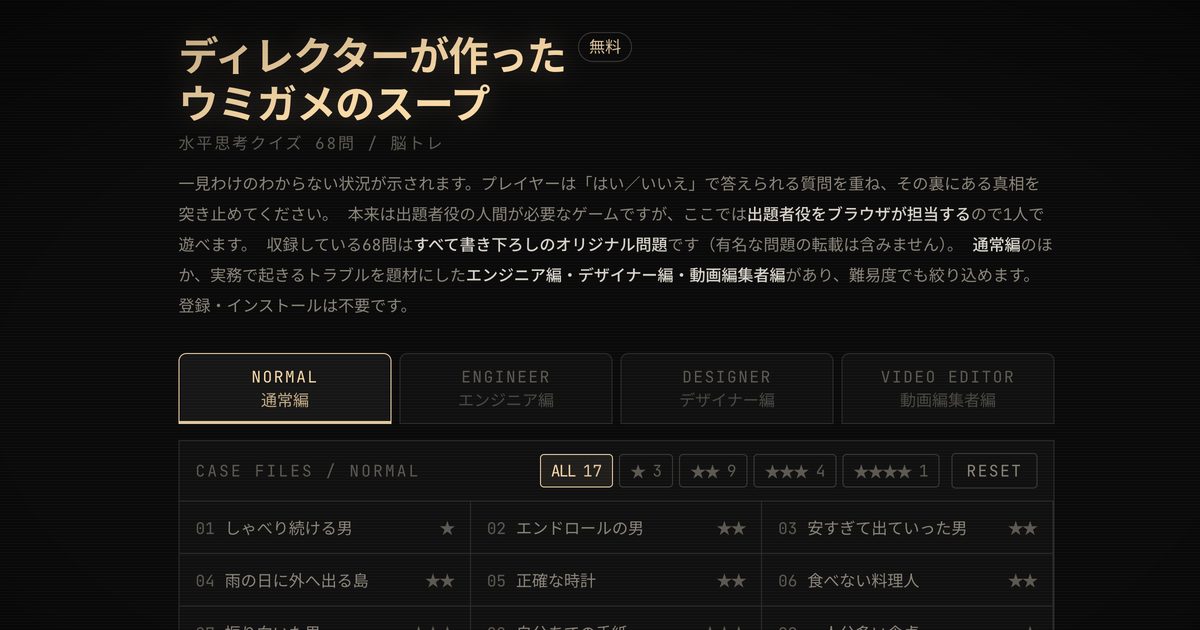
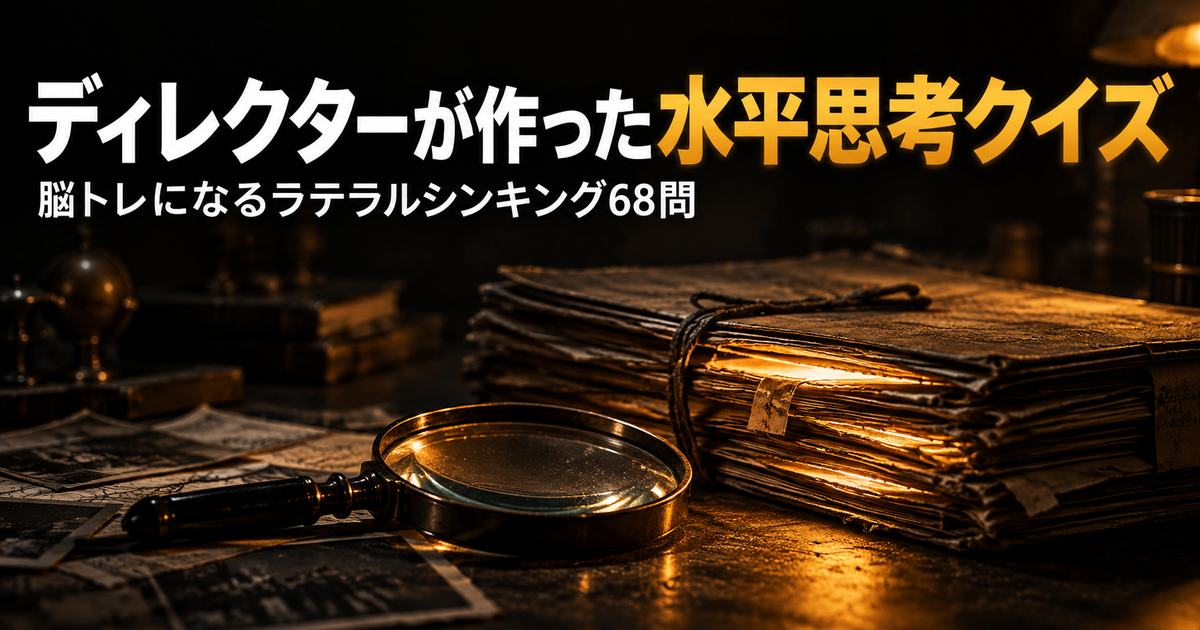
feat(lateral-thinking): タイトルを「ディレクターが作った水平思考クイズ」に変更し「ウミガメのスープ」表記を外す
商標の登録状況が確認しきれないため、一般的な呼び名へ置き換える
- title／OGP／Twitter／JSON-LD（名前・パンくず・FAQ）／h1／footer を新タイトルへ
- FAQと説明文の「ウミガメのスープとは」を「水平思考クイズとは」に
- アプリ名（manifest・apple-mobile-web-app-title）を「水平思考クイズ」に
- シェア時のハッシュタグを #水平思考クイズ #ラテラルシンキング #脳トレ に
- og.png をChatGPTで新規作成した画像（事件ファイルと虫眼鏡・琥珀色）に差し替え
- キャッシュ番号: 20261024b

diff --git a/lateral-thinking/index.html b/lateral-thinking/index.html
@@ -3,7 +3,7 @@
 <head>
 <meta charset="UTF-8">
 <meta name="viewport" content="width=device-width, initial-scale=1.0">
-<title>ディレクターが作ったウミガメのスープ｜脳トレになる水平思考クイズ68問</title>
+<title>ディレクターが作った水平思考クイズ｜脳トレになるラテラルシンキング68問</title>
 <meta name="description" content="「はい／いいえ」で答えられる質問を重ね、一見不可解な状況の裏にある真相を突き止める脳トレです。出題者役はブラウザが担当するので1人で遊べます。通常編のほか、エンジニア・デザイナー・動画編集者の実務を題材にしたジャンルも収録。">
 <link rel="canonical" href="https://codequest.work/games/lateral-thinking/">
 <link rel="alternate" hreflang="ja" href="https://codequest.work/games/lateral-thinking/">
@@ -14,19 +14,19 @@
 <meta property="og:type" content="website">
 <meta property="og:site_name" content="CodeQuest.work">
 <meta property="og:locale" content="ja_JP">
-<meta property="og:title" content="ディレクターが作ったウミガメのスープ｜脳トレになる水平思考クイズ68問">
+<meta property="og:title" content="ディレクターが作った水平思考クイズ｜脳トレになるラテラルシンキング68問">
 <meta property="og:description" content="出題者役はブラウザが担当。質問を打ち込むと「はい／いいえ／関係ありません」が返ります。通常編・エンジニア編・デザイナー編・動画編集者編を各17問収録。">
 <meta property="og:url" content="https://codequest.work/games/lateral-thinking/">
-<meta property="og:image" content="https://codequest.work/games/lateral-thinking/assets/og.png?v=20260806b">
+<meta property="og:image" content="https://codequest.work/games/lateral-thinking/assets/og.png?v=20261024">
 <meta property="og:image:width" content="1200">
 <meta property="og:image:height" content="630">
-<meta property="og:image:alt" content="ディレクターが作ったウミガメのスープ／水平思考クイズ68問">
+<meta property="og:image:alt" content="ディレクターが作った水平思考クイズ／ラテラルシンキング68問">
 
 <!-- Twitter Card -->
 <meta name="twitter:card" content="summary_large_image">
-<meta name="twitter:title" content="ディレクターが作ったウミガメのスープ｜脳トレになる水平思考クイズ68問">
+<meta name="twitter:title" content="ディレクターが作った水平思考クイズ｜脳トレになるラテラルシンキング68問">
 <meta name="twitter:description" content="質問を打ち込むと「はい／いいえ／関係ありません」が返る水平思考クイズ。通常編・エンジニア編・デザイナー編・動画編集者編を各17問収録した無料ゲームです。">
-<meta name="twitter:image" content="https://codequest.work/games/lateral-thinking/assets/og.png?v=20260806b">
+<meta name="twitter:image" content="https://codequest.work/games/lateral-thinking/assets/og.png?v=20261024">
 
 <!-- 構造化データ -->
 <script type="application/ld+json">
@@ -35,7 +35,7 @@
   "@graph": [
     {
       "@type": "WebApplication",
-      "name": "ディレクターが作ったウミガメのスープ｜水平思考クイズ（68問）",
+      "name": "ディレクターが作った水平思考クイズ（68問）",
       "url": "https://codequest.work/games/lateral-thinking/",
       "description": "ディレクターが書き下ろした問題だけを収録した水平思考クイズ。出題者役をブラウザが担当し、プレイヤーの質問に「はい／いいえ／関係ありません」で答える。通常編・エンジニア編・デザイナー編・動画編集者編の4ジャンルを各17問収録。進捗の自動保存に対応。登録・インストール不要。",
       "applicationCategory": "GameApplication",
@@ -50,7 +50,7 @@
       "@type": "BreadcrumbList",
       "itemListElement": [
         { "@type": "ListItem", "position": 1, "name": "ホーム", "item": "https://codequest.work/" },
-        { "@type": "ListItem", "position": 2, "name": "ディレクターが作ったウミガメのスープ", "item": "https://codequest.work/games/lateral-thinking/" }
+        { "@type": "ListItem", "position": 2, "name": "ディレクターが作った水平思考クイズ", "item": "https://codequest.work/games/lateral-thinking/" }
       ]
     },
     {
@@ -58,8 +58,8 @@
       "mainEntity": [
         {
           "@type": "Question",
-          "name": "ウミガメのスープとはどんなゲームですか？",
-          "acceptedAnswer": { "@type": "Answer", "text": "出題者が提示した一見不可解な状況について、プレイヤーが「はい」「いいえ」で答えられる質問を重ねて真相を突き止める推理ゲームです。水平思考クイズ、ラテラルシンキングゲームとも呼ばれます。" }
+          "name": "水平思考クイズとはどんなゲームですか？",
+          "acceptedAnswer": { "@type": "Answer", "text": "出題者が提示した一見不可解な状況について、プレイヤーが「はい」「いいえ」で答えられる質問を重ねて真相を突き止める推理ゲームです。ラテラルシンキングゲームとも呼ばれます。" }
         },
         {
           "@type": "Question",
@@ -118,19 +118,19 @@
 <link rel="preconnect" href="https://fonts.gstatic.com" crossorigin>
 <link href="https://fonts.googleapis.com/css2?family=Noto+Sans+JP:wght@400;500;700&family=JetBrains+Mono:wght@400;700&display=swap" rel="stylesheet">
 
-<link rel="stylesheet" href="css/style.css?v=20261024a">
+<link rel="stylesheet" href="css/style.css?v=20261024b">
 
 <!-- PWA（ホーム画面に追加してオフラインで遊べるようにする） -->
-<link rel="manifest" href="manifest.json?v=20261024a">
+<link rel="manifest" href="manifest.json?v=20261024b">
 <meta name="theme-color" content="#0a0a0a">
 <meta name="mobile-web-app-capable" content="yes">
 <!-- 旧iOS Safari は mobile-web-app-capable を見ないので両方置く -->
 <meta name="apple-mobile-web-app-capable" content="yes">
 <meta name="apple-mobile-web-app-status-bar-style" content="black">
-<meta name="apple-mobile-web-app-title" content="ウミガメのスープ">
+<meta name="apple-mobile-web-app-title" content="水平思考クイズ">
 <!-- iOSはmanifestのiconsではなくこちらを参照する -->
-<link rel="apple-touch-icon" href="assets/apple-touch-icon.png?v=20261024a">
-<link rel="icon" href="assets/icon-192.png?v=20261024a" type="image/png">
+<link rel="apple-touch-icon" href="assets/apple-touch-icon.png?v=20261024b">
+<link rel="icon" href="assets/icon-192.png?v=20261024b" type="image/png">
 </head>
 <body>
 <!-- Google Tag Manager (noscript) -->
@@ -139,7 +139,7 @@ height="0" width="0" style="display:none;visibility:hidden"></iframe></noscript>
 <!-- End Google Tag Manager (noscript) -->
 <div class="wrap">
   <header class="site-head">
-    <h1>ディレクターが作った<br>ウミガメのスープ<span class="sub">水平思考クイズ <span data-puzzle-count>68</span>問 / 脳トレ</span></h1>
+    <h1>ディレクターが作った<br>水平思考クイズ<span class="sub">ラテラルシンキング <span data-puzzle-count>68</span>問 / 脳トレ</span></h1>
     <span class="free">無料</span>
   </header>
 
@@ -226,7 +226,7 @@ height="0" width="0" style="display:none;visibility:hidden"></iframe></noscript>
   <section class="about">
     <h2>このゲームについて</h2>
     <ul>
-      <li><strong>ウミガメのスープ</strong>（水平思考クイズ／ラテラルシンキングゲーム）は、不可解な状況について「はい・いいえ」で答えられる質問を重ね、真相を突き止める推理ゲームです</li>
+      <li><strong>水平思考クイズ</strong>（ラテラルシンキングゲーム）は、不可解な状況について「はい・いいえ」で答えられる質問を重ね、真相を突き止める推理ゲームです</li>
       <li>本来は出題者役の人間が必要ですが、このゲームでは<strong>出題者役をブラウザが担当</strong>します。質問を打ち込むと「はい／いいえ／関係ありません」が返ってきます</li>
       <li><strong>収録している<span data-puzzle-count>68</span>問はすべて、ディレクターである運営者の書き下ろし</strong>です。既存の作品から転載した問題は1問も含んでいません</li>
       <li><strong>職種別の3ジャンル</strong>は、その仕事で実際に起きるトラブルが題材です。<strong>エンジニア編</strong>はデプロイ失敗やメモリリーク、<strong>デザイナー編</strong>は入稿事故やレビューのすれ違い、<strong>動画編集者編</strong>は書き出しや撮影条件のつまずきを扱います</li>
@@ -248,7 +248,7 @@ height="0" width="0" style="display:none;visibility:hidden"></iframe></noscript>
   <footer>
     <span>&copy; <span class="cq-year">2026</span>
       <script>document.currentScript.previousElementSibling.textContent = new Date().getFullYear();</script>
-      ディレクターが作ったウミガメのスープ | Created by <a href="https://codequest.work/" target="_blank" rel="noopener">CodeQuest.work</a></span>
+      ディレクターが作った水平思考クイズ | Created by <a href="https://codequest.work/" target="_blank" rel="noopener">CodeQuest.work</a></span>
     <div class="footer-links">
       <a href="https://codequest.work/apps/html-basics/" target="_blank" rel="noopener">&#127760; HTML基礎練習アプリ</a>
       <a href="https://codequest.work/apps/css-basics/" target="_blank" rel="noopener">&#127912; CSS基礎練習アプリ</a>
@@ -280,7 +280,7 @@ height="0" width="0" style="display:none;visibility:hidden"></iframe></noscript>
   })();
 </script>
 
-<script type="module" src="js/main.js?v=20261024a"></script>
+<script type="module" src="js/main.js?v=20261024b"></script>
 <script>
   // Service Worker の登録（オフライン再生用）。
   // ⚠ スクリプトURLに ?v= は付けない。ブラウザはSW本体を常に再検証するため不要で、

diff --git a/lateral-thinking/js/main.js b/lateral-thinking/js/main.js
@@ -9,8 +9,8 @@ import {
   countByLevel,
   findGenre,
   totalPuzzleCount,
-} from "./puzzles.js?v=20261024a"
-import { AI_PROVIDERS, callAI } from "./ai.js?v=20261024a"
+} from "./puzzles.js?v=20261024b"
+import { AI_PROVIDERS, callAI } from "./ai.js?v=20261024b"
 import {
   buildAiPrompt,
   checkSolution,
@@ -18,13 +18,13 @@ import {
   parseAiVerdict,
   verdictClass,
   verdictLabel,
-} from "./engine.js?v=20261024a"
+} from "./engine.js?v=20261024b"
 import {
   currentStreak,
   dailyCase,
   dailyResultFor,
   recordDailyClear,
-} from "./daily.js?v=20261024a"
+} from "./daily.js?v=20261024b"
 
 const STORAGE_KEYS = {
   progress: "lateral-thinking:progress",
@@ -598,7 +598,7 @@ function shareText() {
     lines.push(`質問${state.questions}回 / ヒント${state.hintsUsed}回`)
   }
 
-  lines.push("#ウミガメのスープ #水平思考クイズ #脳トレ")
+  lines.push("#水平思考クイズ #ラテラルシンキング #脳トレ")
   return lines.join("\n")
 }
 

diff --git a/lateral-thinking/js/puzzles.js b/lateral-thinking/js/puzzles.js
@@ -8,10 +8,10 @@
 //   verdictStyle は判定ラベルの出し分け。"en" なら YES / NO / IRRELEVANT、
 //   "ja" なら はい／いいえ／関係ありません。ジャンルの雰囲気に合わせて選ぶ。
 
-import { GENERAL_PUZZLES } from "./data-general.js?v=20261024a"
-import { ENGINEER_PUZZLES } from "./data-engineer.js?v=20261024a"
-import { DESIGNER_PUZZLES } from "./data-designer.js?v=20261024a"
-import { VIDEO_PUZZLES } from "./data-video.js?v=20261024a"
+import { GENERAL_PUZZLES } from "./data-general.js?v=20261024b"
+import { ENGINEER_PUZZLES } from "./data-engineer.js?v=20261024b"
+import { DESIGNER_PUZZLES } from "./data-designer.js?v=20261024b"
+import { VIDEO_PUZZLES } from "./data-video.js?v=20261024b"
 
 // 並び順がそのままタブの並び順になる。通常編を先頭に置き、以降は職種別。
 export const GENRES = [

diff --git a/lateral-thinking/js/daily.js b/lateral-thinking/js/daily.js
@@ -7,7 +7,7 @@
 // 出題プールは全ジャンルの合計（68問）。周回ごとに並びをシャッフルし直すので、
 // 一巡するまで同じ問題は出ず、二巡目以降も順番が変わる。
 
-import { GENRES } from "./puzzles.js?v=20261024a"
+import { GENRES } from "./puzzles.js?v=20261024b"
 
 /** デイリー開始日（JST）。この日が #001 になる。以後ずらしてはいけない。 */
 const EPOCH = "2026-08-09"

diff --git a/lateral-thinking/sw.js b/lateral-thinking/sw.js
@@ -16,7 +16,7 @@
 //     通るため、再訪者には最大7日古いファイルが届く。意図した更新なら必ず1・2までやること。
 //   ※ SHELL_ASSETS への追加漏れは、その1件がオフラインで落ちるだけで他は動く。
 
-const VERSION = "20261024a"
+const VERSION = "20261024b"
 const SHELL_CACHE = `lt-shell-${VERSION}`
 const FONT_CACHE = `lt-font-${VERSION}`
 

diff --git a/lateral-thinking/css/style.css b/lateral-thinking/css/style.css
@@ -1,7 +1,7 @@
 @charset "UTF-8";
 
 /* ===============================================================
-   ウミガメのスープ｜水平思考クイズ
+   水平思考クイズ｜ラテラルシンキング
    northStar: "Monochrome terminal with amber accents"
    =============================================================== */
 
